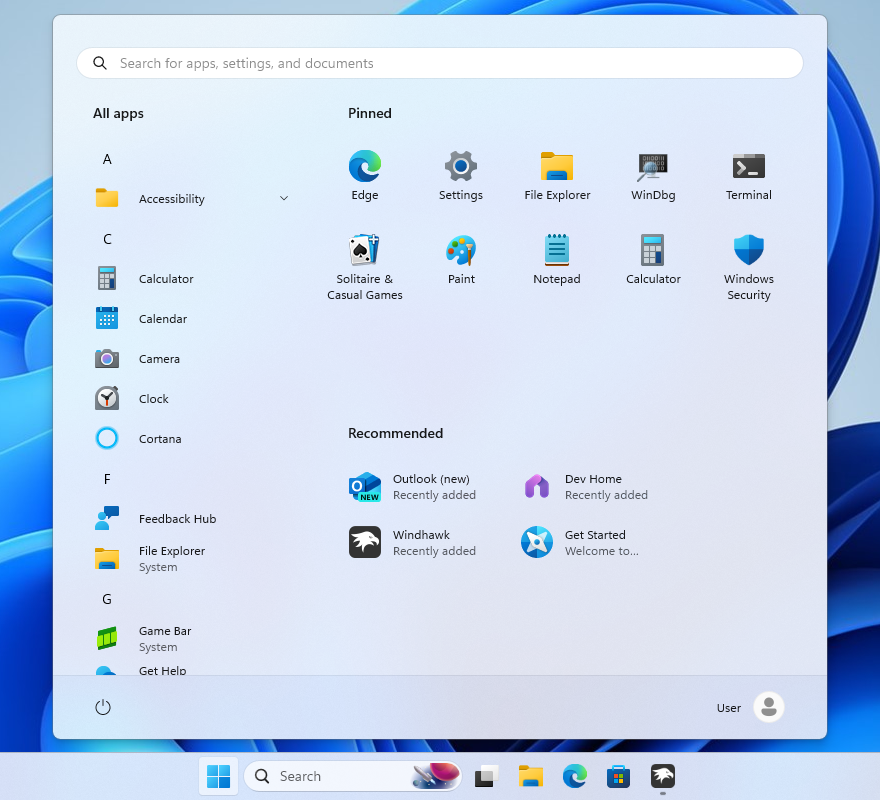
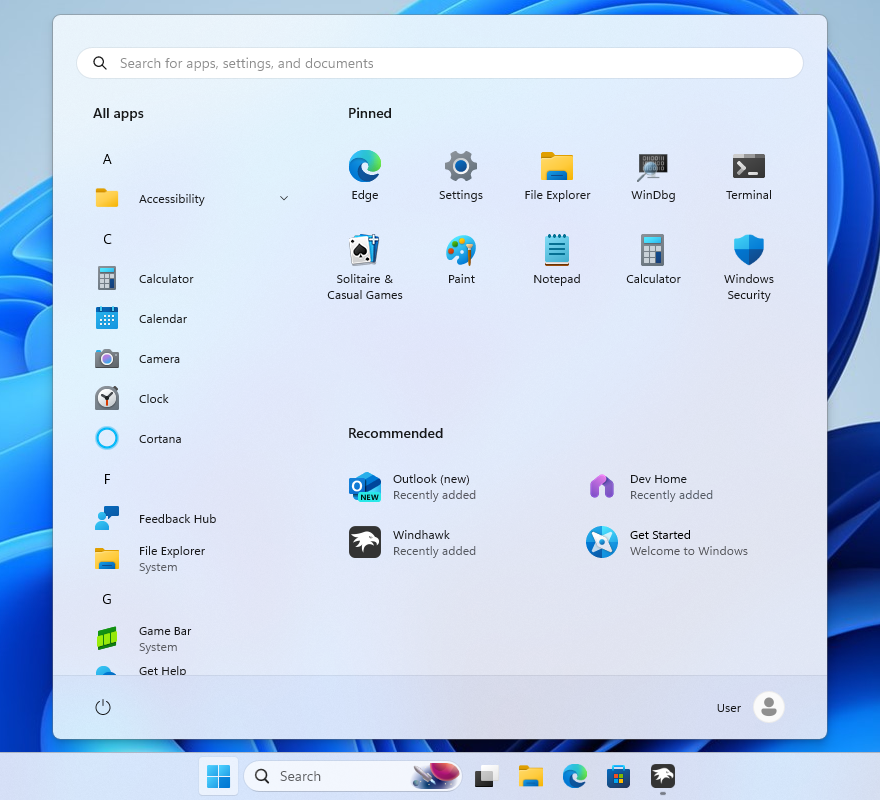
Update the SideBySide2 theme

Changed region(s): [[0.583, 0.6562, 0.7977, 0.7188], [0.583, 0.5938, 0.7977, 0.625], [0.7977, 0.6875, 0.8284, 0.7188]]

diff --git a/Themes/SideBySide2/README.md b/Themes/SideBySide2/README.md
@@ -1,4 +1,4 @@
-# SideBySide theme for Windows 11 Start Menu Styler
+# SideBySide2 theme for Windows 11 Start Menu Styler
 
 **Author**: Pyxisynth
 
@@ -56,7 +56,9 @@ follow these steps:
   "controlStyles[14].target": "Windows.UI.Xaml.Controls.ItemsStackPanel > Windows.UI.Xaml.Controls.ListViewItem",
   "controlStyles[14].styles[0]": "FlowDirection=0",
   "controlStyles[15].target": "StartDocked.SearchBoxToggleButton#StartMenuSearchBox",
-  "controlStyles[15].styles[0]": "Margin=23,1,23,14"
+  "controlStyles[15].styles[0]": "Margin=23,1,23,14",
+  "controlStyles[16].target": "Windows.UI.Xaml.Controls.TextBlock#NoSuggestionsWithoutSettingsLink",
+  "controlStyles[16].styles[0]": "Margin=11,0,48,0"
 }
 ```
 </details>
